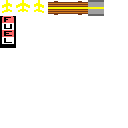
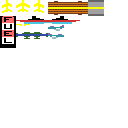
updated river raid

Changed region(s): [[0.125, 0.125, 0.625, 0.3125], [0.0625, 0.125, 0.0938, 0.1562]]

diff --git a/micropython/examples/tufty2040/river_raid.py b/micropython/examples/tufty2040/river_raid.py
@@ -7,18 +7,18 @@ display = display_singleton.get_display()
 WIDTH, HEIGHT = display.get_bounds() # 320 , 240
 
 BULLET_SPEED = 10
-PLAYER_SPEED = 6
+PLAYER_SPEED = 4
 MAP_SPEED = 2
 
 YELLOW = display.create_pen(255, 255, 0)
 
-TERRAINS = [0b00000011,0b00001111,0b00111111,0b11000011,0b00011111,0b00000111,0b11000011]
+TERRAINS = [0b00000011,0b00001111,0b00000111,0b11000011,0b00011111,0b00000111,0b11000011]
 
 BRIDGE_TERRAIN = 0b00111111
 PRE_BRIDGE_TERRAIN = 0b00000111
 
 spritesheet = bytearray(128 * 128)
-open("player.rgb332", "rb").readinto(spritesheet)
+open("river_raid.rgb332", "rb").readinto(spritesheet)
 
 # Buttons
 button_a = Button(7, invert=False)
@@ -43,6 +43,7 @@ class Player():
         self.fuel = 1000
         self.sprite = 2
         self.isAlive = True
+        self.score = 0
         
     def move(self,x,y):
         if self.x + x > 0 - self.width and self.x + x < WIDTH - self.width:
@@ -58,6 +59,8 @@ class Player():
         display.text("Fuel", 260, 200, scale=2)
         display.rectangle(260,220,round(50*(self.fuel/1000)),10)
         display.rectangle(260,215,50, 2)
+        display.text("Score", 260, 20, scale=2)
+        display.text(str(self.score), 260, 35, scale=2)
         
 class Shot():
     def __init__(self, x):
@@ -74,15 +77,16 @@ class Shot():
         display.line(self.x,self.y,self.x,self.y+7,4)
 
 class Target():
-    def __init__(self,x,y,width,height,limitX,limitY):
+    def __init__(self,x,y,width,height,Xmin,Xmax,score):
         self.isAlive = True
         self.x = x
         self.y = y
         self.width = width
         self.height = height
-        self.limitX = limitX
-        self.limitY = limitY
+        self.Xmin = Xmin
+        self.Xmax = Xmax
         self.is_Ally = False
+        self.score = score
         
     def should_delete(self):
         return (not self.isAlive) or self.y > 240
@@ -92,13 +96,13 @@ class Target():
     
     def draw(self):
         raise "not implemented"
-
+    
 class Bridge(Target):
     def __init__(self,y):
         self.road1 = display.create_pen(140,140,140)
         self.road2 = display.create_pen(180,180,180)
         self.road3 = display.create_pen(255,255,0)
-        super().__init__(120,y,80,28,0,0)
+        super().__init__(120,y,80,28,0,0,500)
         
         
     def should_delete(self):
@@ -122,7 +126,7 @@ class Bridge(Target):
         
 class Fuel(Target):
     def __init__(self,x,y):
-        super().__init__(x,y,24,56,0,0)
+        super().__init__(x,y,24,56,0,0,80)
         self.is_Ally = True
         
     def draw(self):
@@ -134,6 +138,98 @@ class Fuel(Target):
         display.sprite(1,3,self.x + 12,self.y + 16,2,0)
         display.sprite(1,4,self.x + 12,self.y + 32,2,0)
         display.sprite(1,5,self.x + 12,self.y + 48,2,0)
+    
+    
+class Boat(Target):
+    def __init__(self,x,y,Xmin,Xmax):
+        super().__init__(x,y,64,12,Xmin,Xmax,30)
+        self.direction = random.randint(0,1)
+        
+    def update(self):
+        self.y += MAP_SPEED
+        if not self.direction:
+            self.x -= 1
+            if self.x <= self.Xmin:
+                self.direction = 1
+        else:
+            self.x += 1
+            if self.x >= self.Xmax - self.width:
+                self.direction = 0
+        
+    def draw(self):
+        if not self.direction:
+            display.sprite(2,2,self.x     ,self.y,2,255)
+            display.sprite(3,2,self.x + 16,self.y,2,255)
+            display.sprite(4,2,self.x + 32,self.y,2,255)
+            display.sprite(5,2,self.x + 48,self.y,2,255)
+        else:
+            display.sprite(6,2,self.x     ,self.y,2,255)
+            display.sprite(7,2,self.x + 16,self.y,2,255)
+            display.sprite(8,2,self.x + 32,self.y,2,255)
+            display.sprite(9,2,self.x + 48,self.y,2,255)
+        
+        
+class Heli(Target):
+    def __init__(self,x,y,Xmin,Xmax):
+        super().__init__(x,y,32,12,Xmin,Xmax,60)
+        self.direction = random.randint(0,1)
+        self.helix = 0
+        
+    def update(self):
+        self.y += MAP_SPEED
+        if not self.direction:
+            self.x -= 1
+            if self.x <= self.Xmin:
+                self.direction = 1
+        else:
+            self.x += 1
+            if self.x >= self.Xmax - self.width:
+                self.direction = 0
+        self.helix += 1
+        if self.helix >= 10: self.helix = 0
+        
+    def draw(self):
+        if not self.direction:
+            display.sprite(4,4,self.x     ,self.y,2,255)
+            display.sprite(5,4,self.x + 16,self.y,2,255)
+        else:
+            display.sprite(2,4,self.x     ,self.y,2,255)
+            display.sprite(3,4,self.x + 16,self.y,2,255)
+        if self.helix < 5:
+            display.sprite(3,3,self.x + 8 + (self.direction * 12),self.y-4,2,255)
+            display.sprite(2,3,self.x     + (self.direction * 12),self.y-6,2,255)
+        else:
+            display.sprite(3,3,self.x + 8 + (self.direction * 12),self.y-6,2,255)
+            display.sprite(2,3,self.x     + (self.direction * 12),self.y-4,2,255)
+        
+        
+class Drone(Target):
+    def __init__(self,y):
+        super().__init__(0,y,64,12,0,0,100)
+        self.direction = random.randint(0,1)
+        if not self.direction:
+            self.x = 400
+        else:
+            self.x = -20
+        self.active = False
+        
+    def update(self):
+        self.y += MAP_SPEED
+        if not self.active and self.y > 0 and random.randint(0,20) == 20:
+            self.active = True
+        elif self.active:
+            if not self.direction:
+                self.x -= 2
+            else:
+                self.x += 2
+        
+    def draw(self):
+        if not self.direction:
+            display.sprite(6,3,self.x     ,self.y,2,255)
+            display.sprite(7,3,self.x + 16,self.y,2,255)
+        else:
+            display.sprite(6,4,self.x + 24,self.y,2,255)
+            display.sprite(7,4,self.x + 32,self.y,2,255)
 
 class Game():
     
@@ -150,6 +246,10 @@ class Game():
         self.terrain.append(TERRAINS[0])
         self.terrain.append(TERRAINS[2])
         self.terrain.append(TERRAINS[2])
+        self.targets.append(Heli(120,0,40,280))
+        self.targets.append(Boat(242,-150,60,260))
+        self.targets.append(Heli(140,-200,60,260))
+        self.targets.append(Boat(160,-240,60,260))
         self.terrain_offset = 0
         self.terrain_number = 5
         self.new_terrain = False
@@ -171,6 +271,7 @@ class Game():
                         
     #read movements
     def process_input(self):
+        global MAP_SPEED
         if button_b.raw():
             self.player.move(PLAYER_SPEED, 0)
             self.player.sprite = 4
@@ -181,8 +282,15 @@ class Game():
             self.player.sprite = 2
         if button_c.read() and len(self.bullets) == 0:
             self.bullets.append(Shot(self.player.x))
+        if button_up.raw():
+            MAP_SPEED = 3
+        elif button_down.raw():
+            MAP_SPEED = 1
+        else:
+            MAP_SPEED = 2
            
     def update_terrain(self):
+        print(MAP_SPEED)
         self.terrain_offset += MAP_SPEED
         if(self.terrain_offset >= 120):
             self.new_terrain = True
@@ -239,10 +347,22 @@ class Game():
                     else:
                         max_x = 120
                 x = random.randint(min_x,max_x - 32)
-                y = random.randint(-220,-170)
+                y = random.randint(-280,-240)
                 self.targets.append(Fuel(x,y))
                 print('terrain was',bin(terrain),'fuel is on',x,y)
             #decide for enemies + level
+            if random.randint(0,1) and not bifurcated:
+                x = random.randint(min_x,max_x-64)
+                y = random.randint(-280,-180)
+                self.targets.append(Boat(x,y,min_x,max_x))
+                print("boat",x,y,min_x,max_x,bin(terrain))
+            if random.randint(0,1):
+                x = random.randint(min_x,max_x-32)
+                y = random.randint(-280,-180)
+                self.targets.append(Heli(x,y,min_x,max_x))
+            if random.randint(0,1):
+                y = random.randint(-280,-180)
+                self.targets.append(Drone(y))
         pass
     
     def update(self):
@@ -251,10 +371,13 @@ class Game():
             bullet.update()
             if(bullet.y < 0):
                 self.bullets.remove(bullet)
+                continue
             for target in self.targets:
                 if target.isAlive and self.check_collision(bullet,target):
                     self.bullets.remove(bullet)
                     target.isAlive = False
+                    self.player.score += target.score
+                    continue
         #terrain
         self.update_terrain()
         self.check_collision_terrain()
@@ -281,12 +404,14 @@ class Game():
         display.set_pen(self.TERRAIN_PEN)
         
         for y,terrain in enumerate(self.terrain):
+            display.set_pen(self.TERRAIN_PEN)
             coord_y = 200 - (y*120) + self.terrain_offset
             for x in range(0,8):
                 if(terrain & (1 << x)):
                     display.rectangle(300-(20*x),coord_y, 20, 100)
                     display.rectangle(     20*x ,coord_y, 20, 100)
             if(coord_y > 0):
+                display.set_pen(display.create_pen(40, 190, 40))
                 dif =  abs((terrain & 0b111111) - (self.terrain[y+1] & 0b111111))
                 match = terrain & self.terrain[y+1]
                 xhign = 0

diff --git a/micropython/examples/tufty2040/display_singleton.py b/micropython/examples/tufty2040/display_singleton.py
@@ -1,9 +1,9 @@
-from picographics import PicoGraphics, DISPLAY_TUFTY_2040
+from picographics import PicoGraphics, DISPLAY_TUFTY_2040, PEN_RGB332
 
 display = None
 
 def get_display():
     global display
     if display == None:
-        display = PicoGraphics(display=DISPLAY_TUFTY_2040)
+        display = PicoGraphics(display=DISPLAY_TUFTY_2040, pen_type=PEN_RGB332, rotate=180)
     return display

diff --git a/micropython/examples/tufty2040/wavy_message.py b/micropython/examples/tufty2040/wavy_message.py
@@ -1,8 +1,8 @@
-from picographics import PicoGraphics, DISPLAY_TUFTY_2040, PEN_RGB332
 import math
 import time
+import display_singleton
 
-display = PicoGraphics(display=DISPLAY_TUFTY_2040, pen_type=PEN_RGB332, rotate=180)
+display = display_singleton.get_display()
 
 
 # convert a hue, saturation, and value into rgb values

diff --git a/micropython/examples/tufty2040/sketchy_sketch.py b/micropython/examples/tufty2040/sketchy_sketch.py
@@ -1,8 +1,8 @@
 import time
 from pimoroni import Button
-from picographics import PicoGraphics, DISPLAY_TUFTY_2040, PEN_RGB332
+import display_singleton
 
-display = PicoGraphics(display=DISPLAY_TUFTY_2040, pen_type=PEN_RGB332, rotate=180)
+display = display_singleton.get_display()
 
 # Tufty constants
 A = 7
